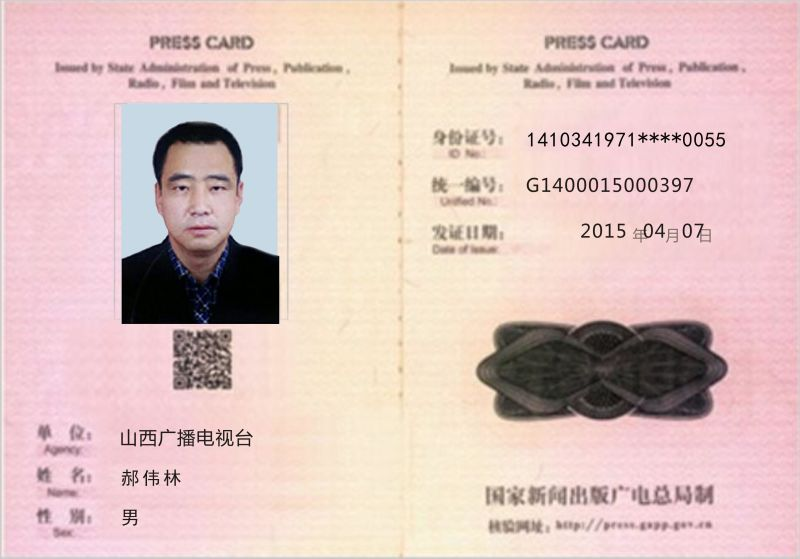
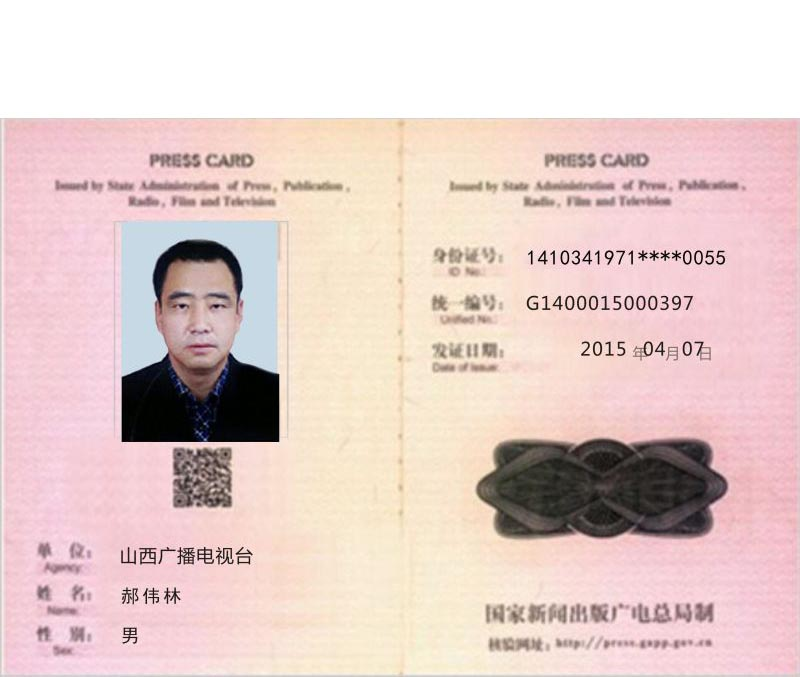
t

diff --git a/img1.html b/img1.html
@@ -10,12 +10,7 @@
 
   <body>
      <div class="container">
-		<br />
-		<br />
-			<br />
-		<br />
-				<br />
-		<br />
+
       <img src="img1.jpg" class="img-responsive" alt="Cinque Terre" width="1304" height="1236" style="width:90%"> 
       
       

diff --git a/img2.html b/img2.html
@@ -9,8 +9,6 @@
 
   <body>
      <div class="container">
-		<br />
-		<br />
       <img src="img2.jpg" class="img-responsive" alt="Cinque Terre" width="1304" height="1236" style="width:90%"> 
 
       
